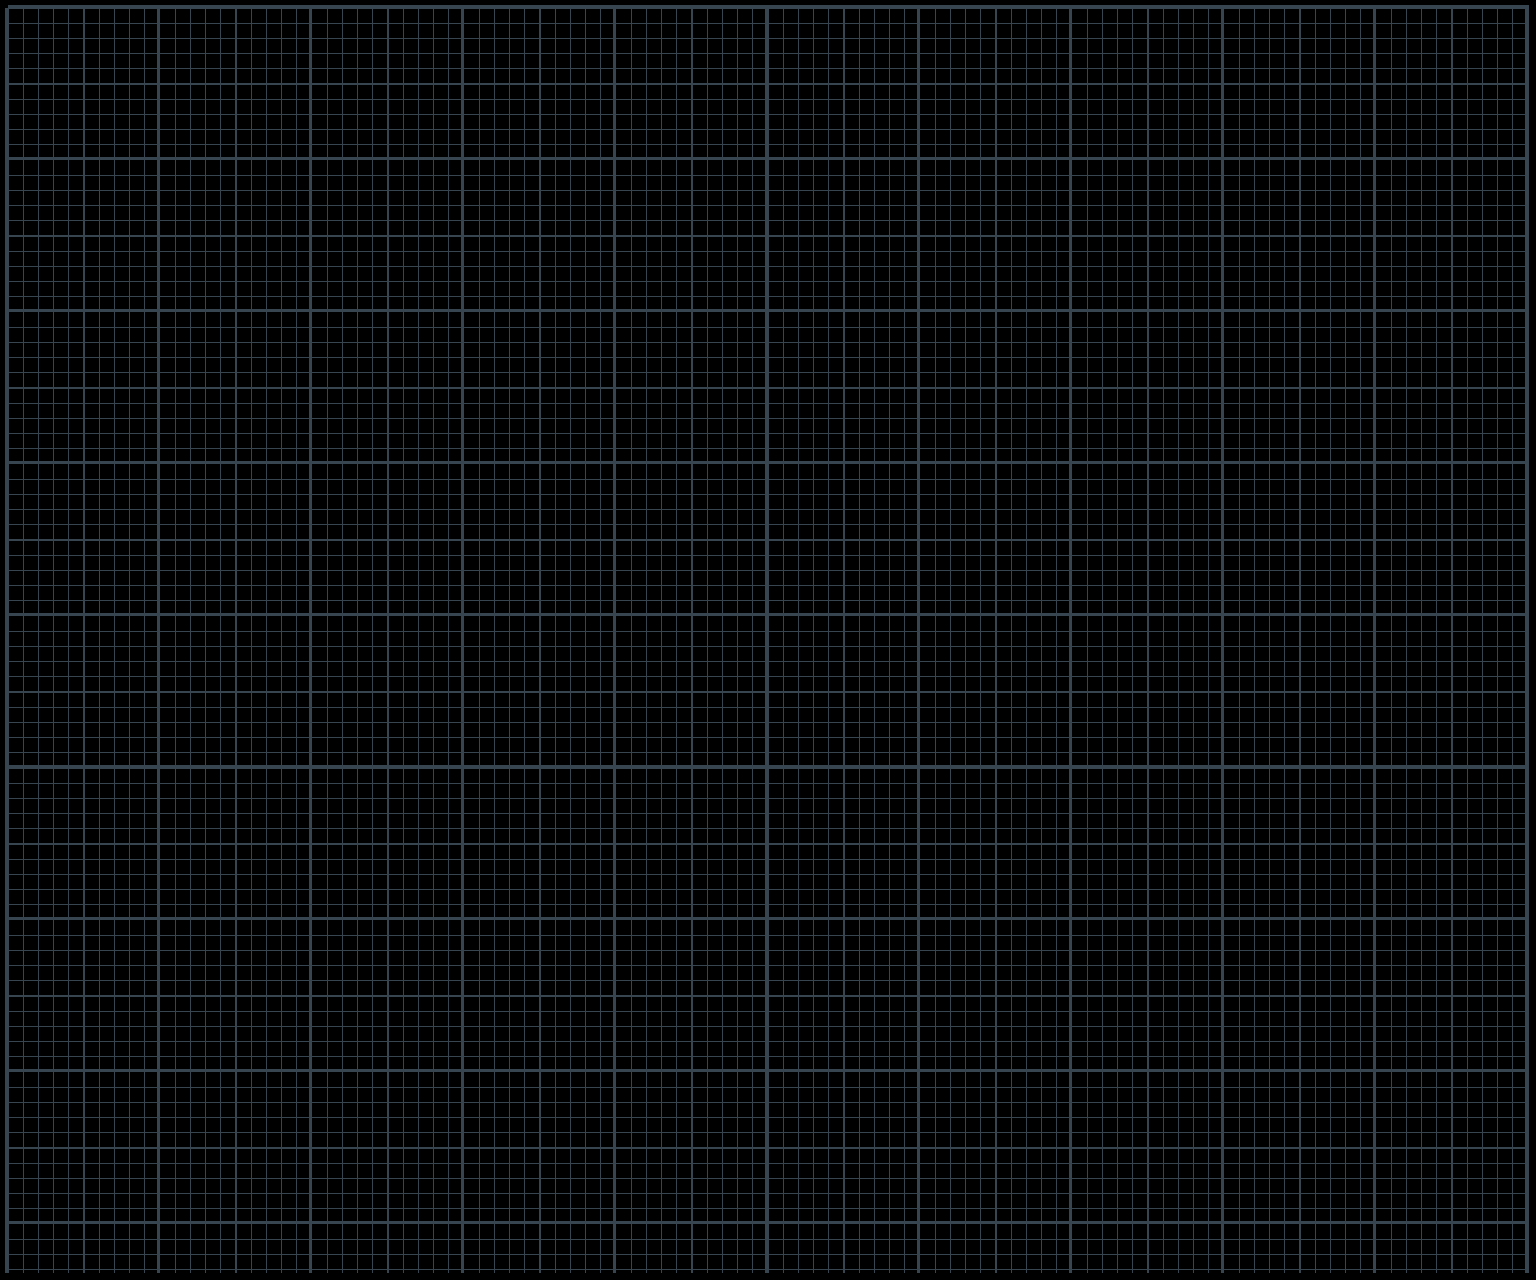
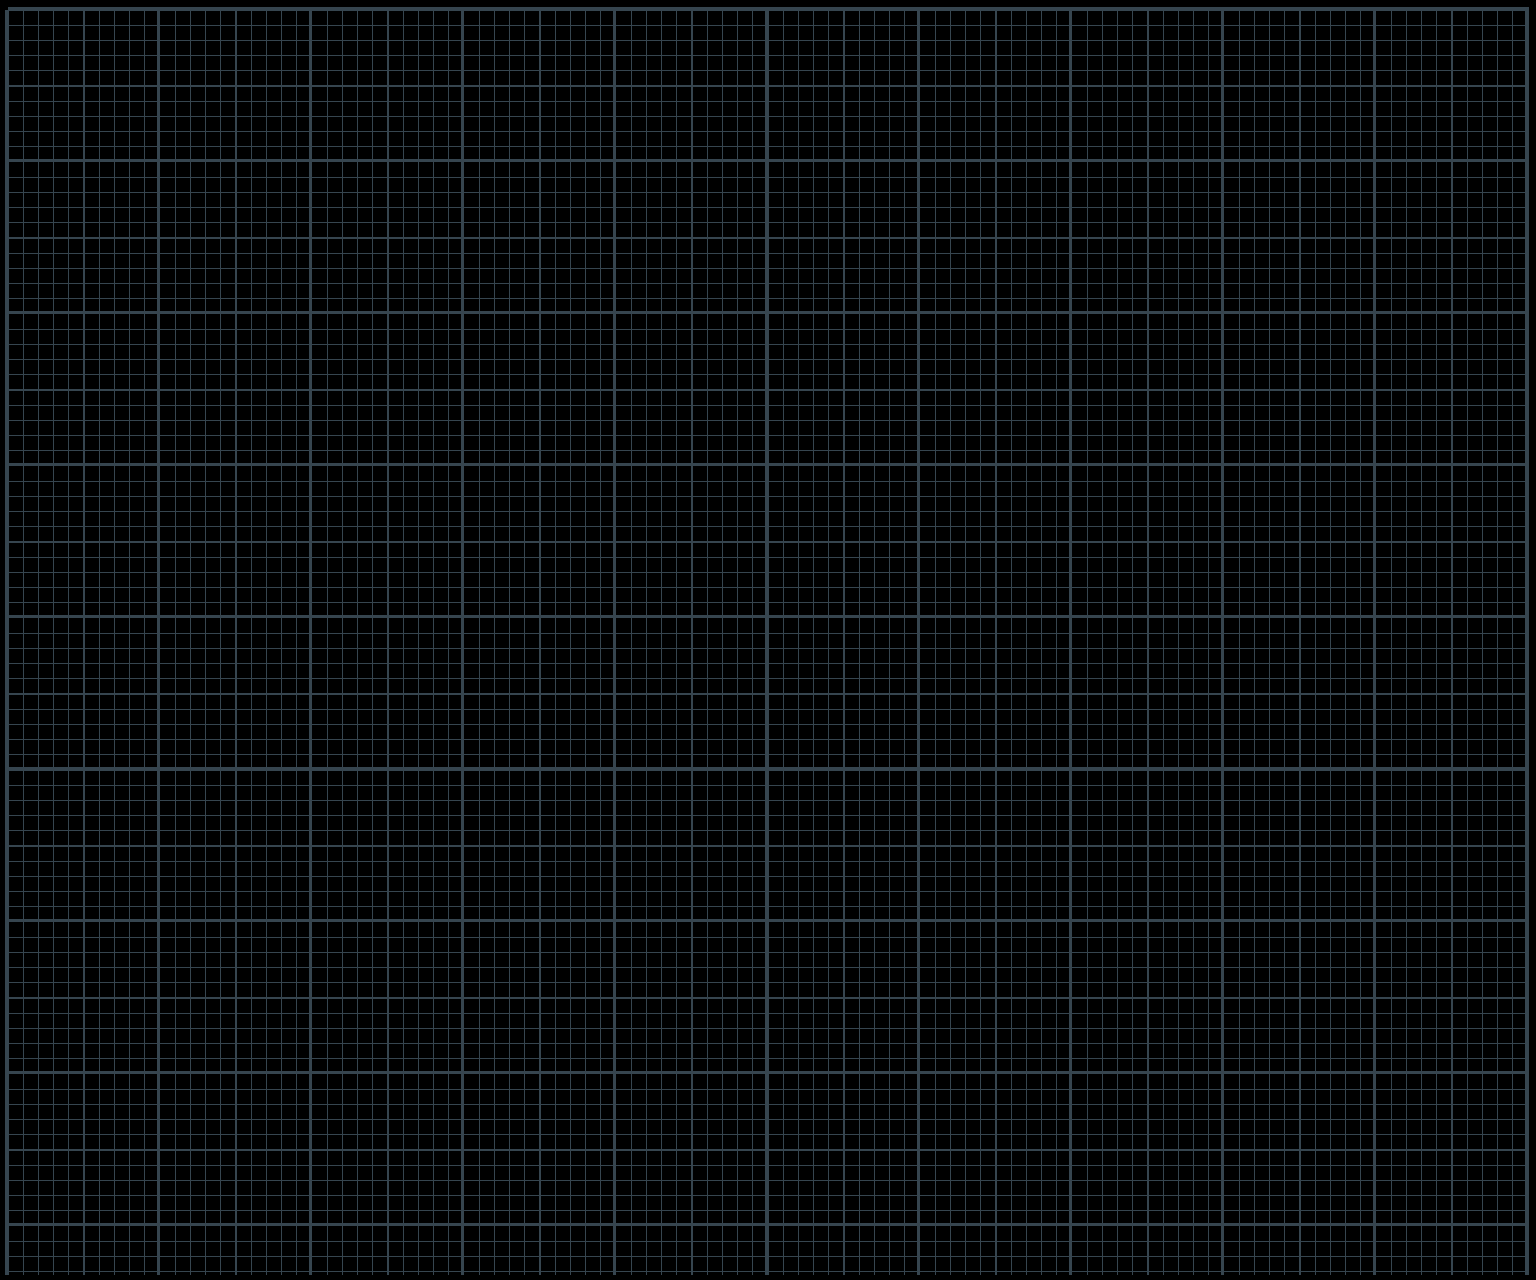
fix scripts

diff --git a/generate_graph.py b/generate_graph.py
@@ -56,12 +56,13 @@ def create_graph_paper(width, height, sections, subsections, padding):
     minor_gap = major_gap/subsections
 
     # Draw horizontal lines
+    top_padding = 10
     pos = 0
     x = 0
     while pos < height:
         for y in range (0, subsections):
             line_width = 1
-            pos = floor(padding + x*major_gap + y*minor_gap)
+            pos = floor(top_padding + x*major_gap + y*minor_gap)
             if y%5 == 0 and y!=0:
                 pos = pos - 1
                 line_width = 2
@@ -87,7 +88,7 @@ def create_graph_paper(width, height, sections, subsections, padding):
                 if x%5 == 0:
                     line_width = 4
             # print("Pos: ", pos, " LineWidth: ", line_width)
-            draw.line([(pos, padding), (pos, height + padding)], fill="#36454f", width=line_width)
+            draw.line([(pos, top_padding), (pos, height + top_padding)], fill="#36454f", width=line_width)
             if x == sections:
                 break
 
@@ -106,7 +107,7 @@ def generate_graph(width, height, padding, sections, subsections, tag):
 def runDefault():
     
     generate_graph(640, 1000, 10, 10, 10, "sm")
-    generate_graph(768, 1000, 4, 10, 10, "md")
+    generate_graph(768, 1000, 9, 10, 10, "md")
     generate_graph(1024, 1280, 12, 10, 10, "lg")
     generate_graph(1280, 1280, 10, 10, 10, "xl")
     generate_graph(1536, 1280, 8, 10, 10, "2xl")
